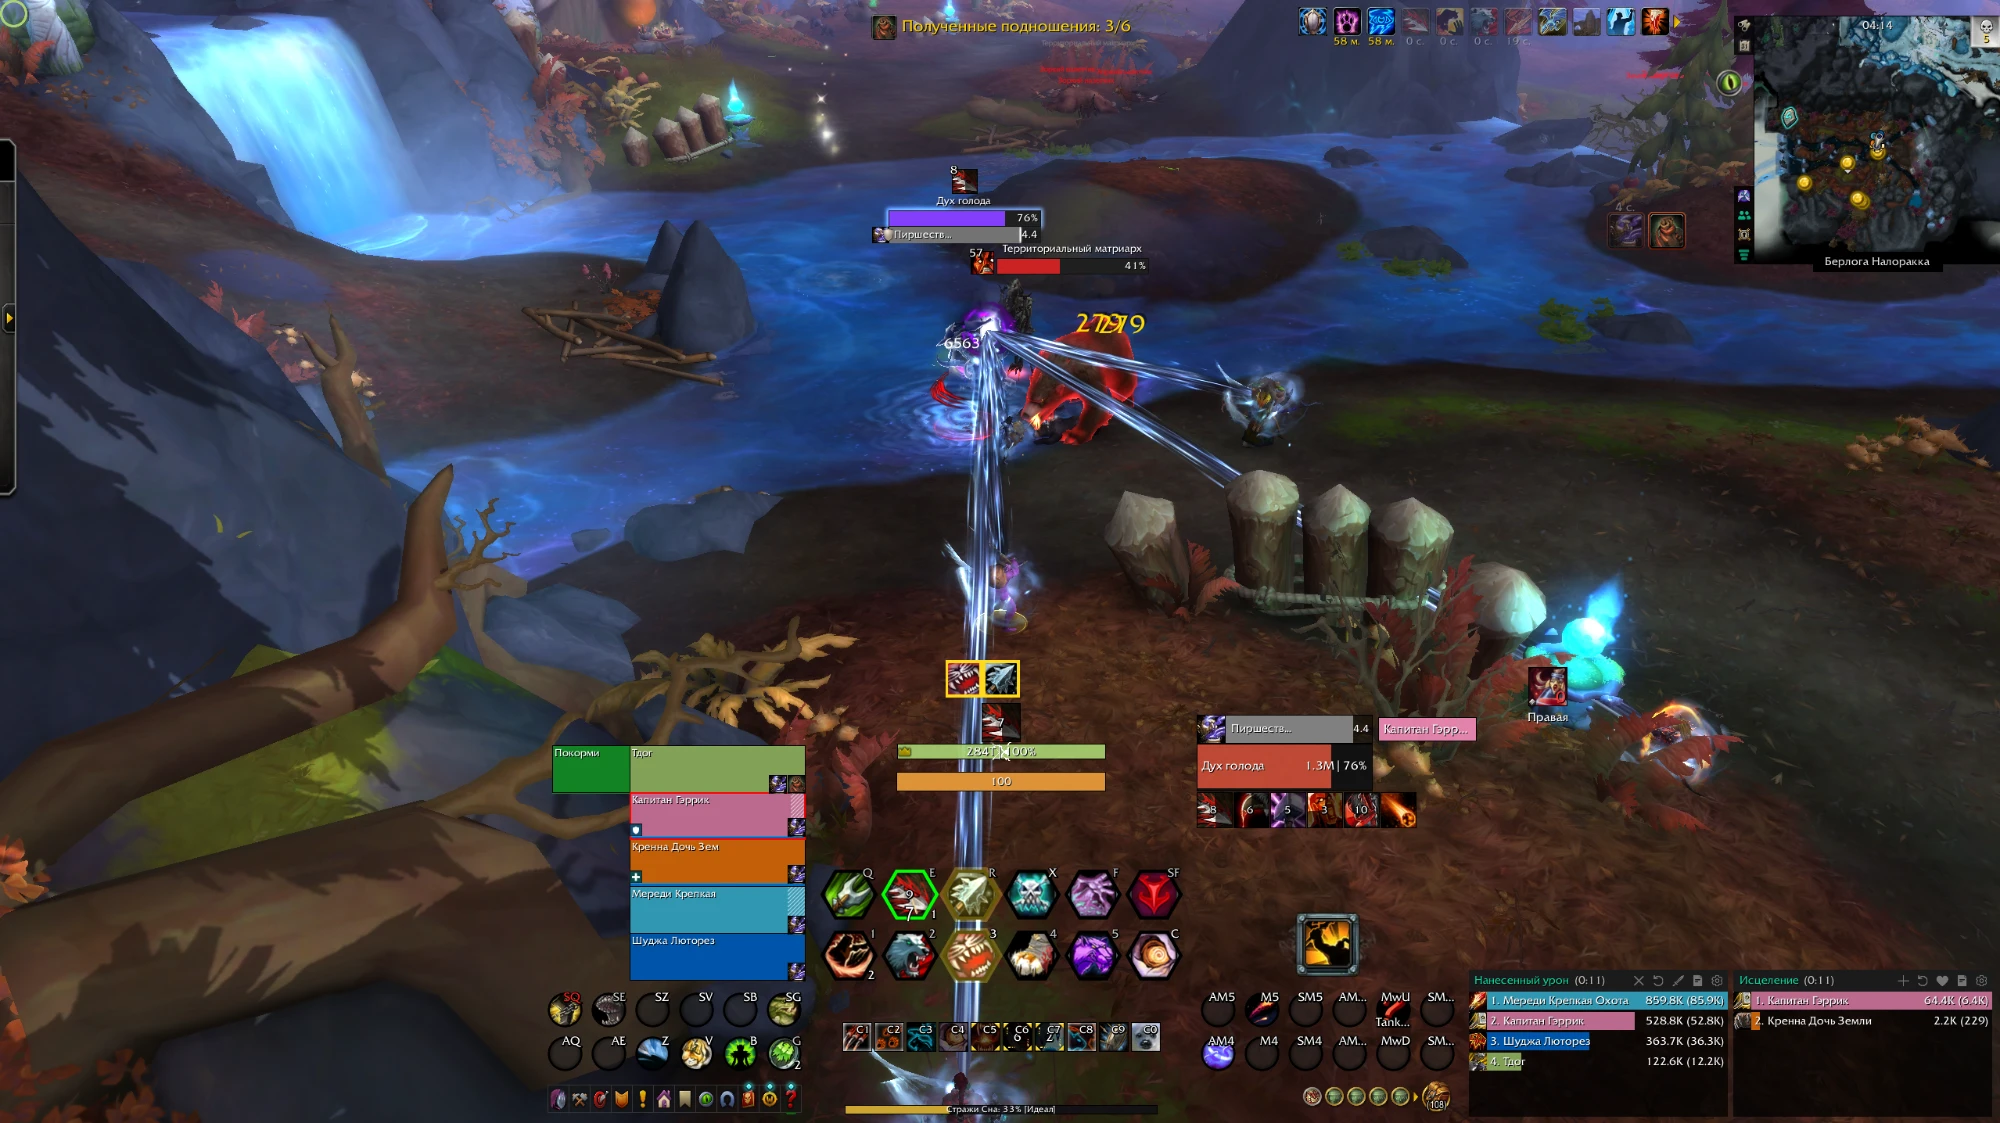
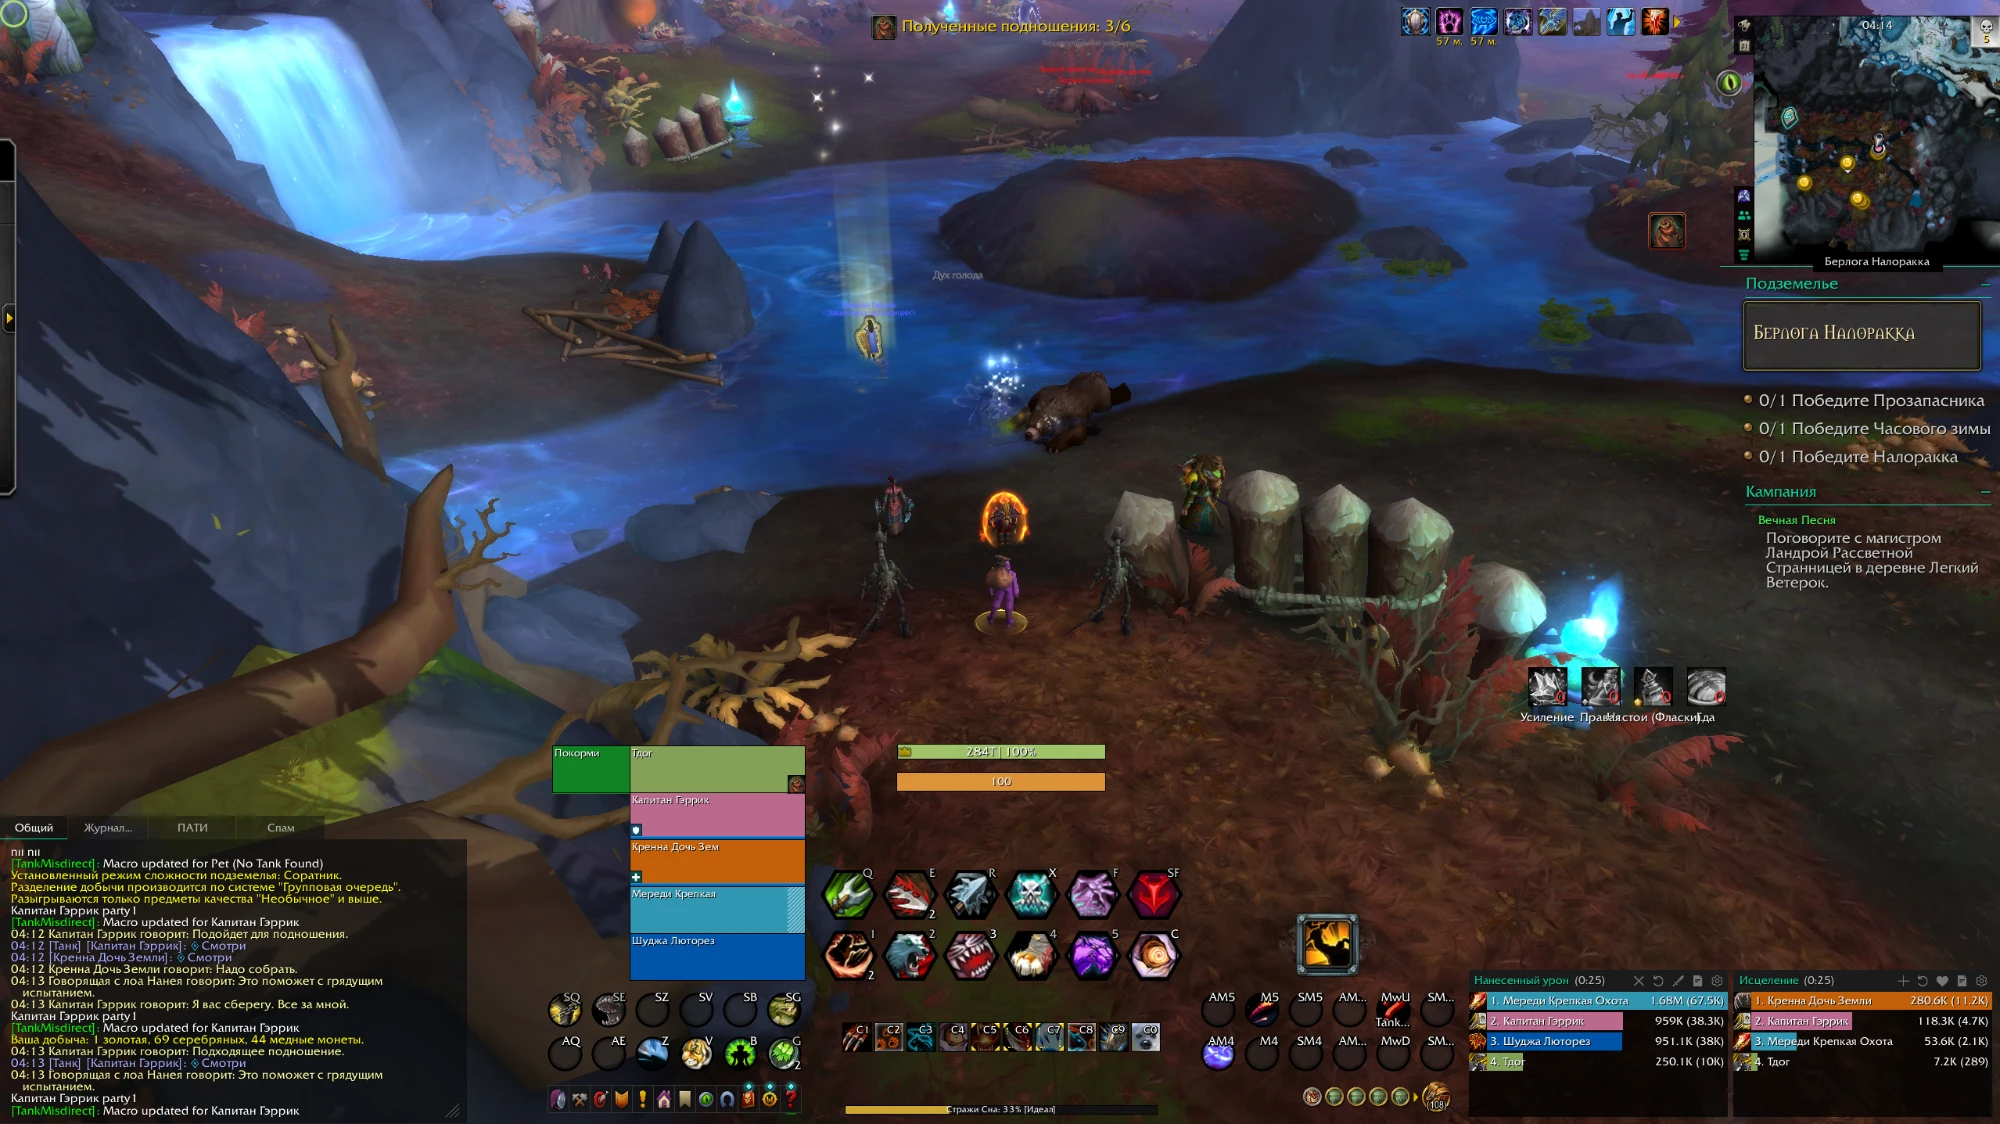
Update the EllesmereUI profile and the screenshot

diff --git a/README.md b/README.md
@@ -1,6 +1,6 @@
 # WoW Profile
 
-My World of Warcraft interface for retail 12.1 (Midnight), mostly for healing and Mythic+ keys. A compact layout with one combat cluster under the character.
+My World of Warcraft interface for retail 12.1 (Midnight), mostly for healing and Mythic+ keys. A compact layout around the character: party and focus on the left, target on the right, action bars below.
 
 ![The interface in Silvermoon](screenshot.webp)
 
